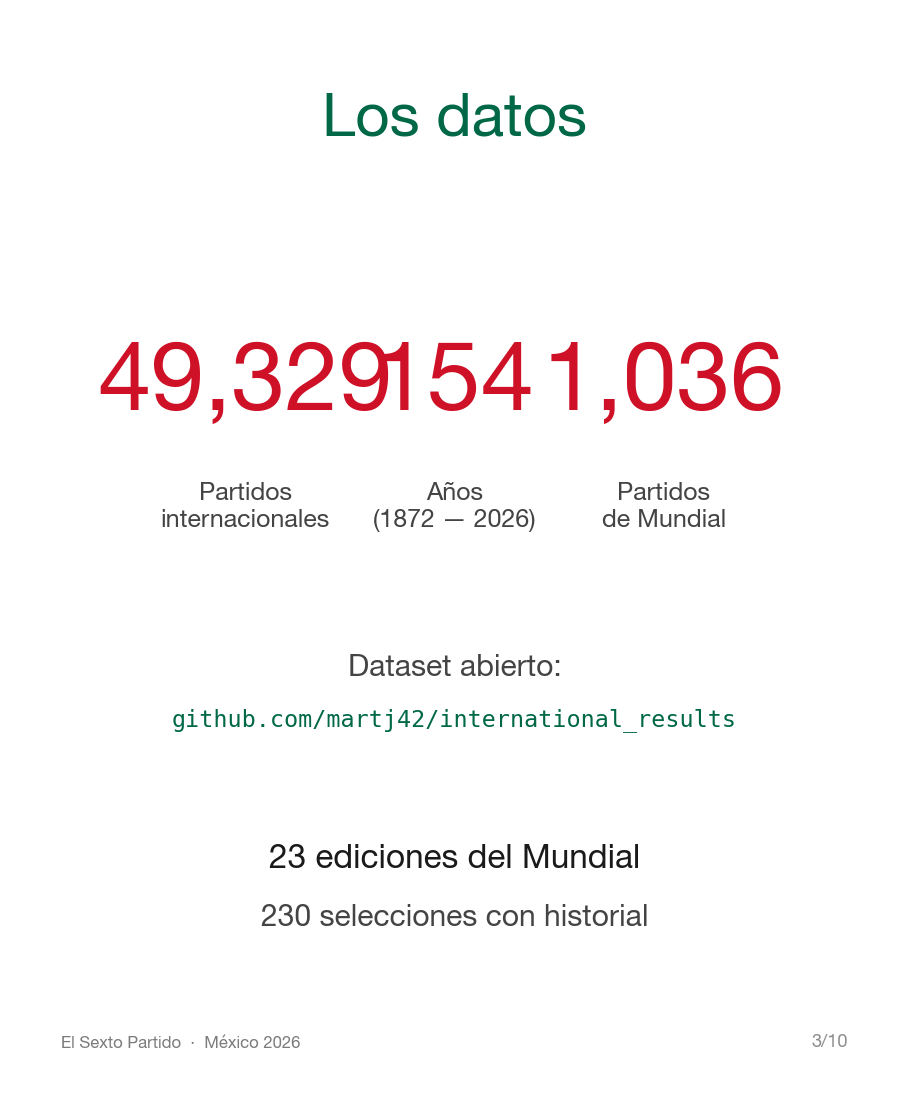
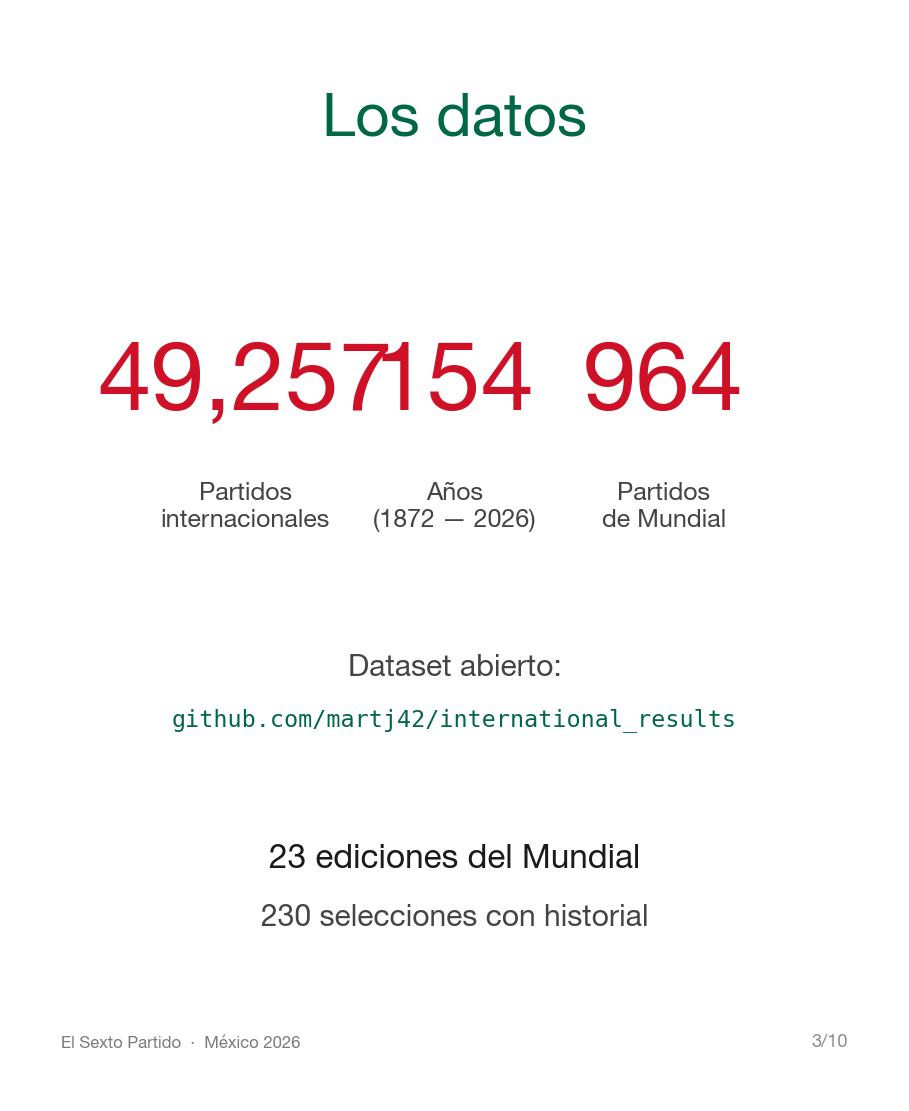
fix: corregir cifras a partidos efectivamente jugados
El dataset (49,329 filas) incluye 72 partidos futuros del Mundial 2026.
Los analizados/jugados son 49,257 (1,036 mundiales -> 964 jugados).

- Slide 3 del carrusel: 49,257 / 154 anos / 964
- README seccion Datos: aclarado el desglose dataset vs jugados
- post_linkedin.md: hook actualizado

Changed region(s): [[0.6161, 0.306, 0.8625, 0.3978], [0.2464, 0.306, 0.4312, 0.3672]]

diff --git a/src/build_carousel.py b/src/build_carousel.py
@@ -139,9 +139,9 @@ def slide_3():
                 fontweight='bold')
         ax.text(x, 6.6, label, fontsize=15, ha='center', color=GRIS_TEXTO)
 
-    num_box(2.5, '49,329', 'Partidos\ninternacionales')
+    num_box(2.5, '49,257', 'Partidos\ninternacionales')
     num_box(5.0, '154', 'Años\n(1872 — 2026)')
-    num_box(7.5, '1,036', 'Partidos\nde Mundial')
+    num_box(7.5, '964', 'Partidos\nde Mundial')
 
     ax.text(5, 4.8, 'Dataset abierto:', fontsize=18, ha='center',
             color=GRIS_TEXTO)

diff --git a/README.md b/README.md
@@ -8,7 +8,7 @@
 
 ## 📌 Resumen ejecutivo
 
-Analicé 49,329 partidos internacionales (1872-2026) para responder con datos una pregunta cultural en México: ¿la eliminación recurrente en octavos es maldición o promedio estadístico? Con un sistema ELO dinámico + GLM Poisson + 10,000 simulaciones Montecarlo del Mundial 2026, el resultado es claro: **los 7 octavos consecutivos eran el resultado más probable dado el ELO histórico de México (~1750). En 2026, con ELO 1823 y siendo anfitrión, la probabilidad de llegar a cuartos (sexto partido) sube a 30%.**
+Analicé 49,257 partidos internacionales (1872-2026) para responder con datos una pregunta cultural en México: ¿la eliminación recurrente en octavos es maldición o promedio estadístico? Con un sistema ELO dinámico + GLM Poisson + 10,000 simulaciones Montecarlo del Mundial 2026, el resultado es claro: **los 7 octavos consecutivos eran el resultado más probable dado el ELO histórico de México (~1750). En 2026, con ELO 1823 y siendo anfitrión, la probabilidad de llegar a cuartos (sexto partido) sube a 30%.**
 
 ## 🎯 Pregunta de negocio
 
@@ -19,9 +19,9 @@ Analicé 49,329 partidos internacionales (1872-2026) para responder con datos un
 
 ## 📊 Datos
 
-- **Fuente:** [martj42/international_results](https://github.com/martj42/international_results) — 49,329 partidos internacionales 1872-2026.
-- **Período cubierto:** 154 años.
-- **Tamaño:** 49,329 filas × 9 columnas (1,036 son partidos de Copa del Mundo en 23 ediciones).
+- **Fuente:** [martj42/international_results](https://github.com/martj42/international_results) — dataset abierto, 49,329 filas (de las cuales 49,257 son partidos ya jugados; los 72 restantes son la fase de grupos del Mundial 2026 ya programada).
+- **Período cubierto:** 154 años (1872 – 2026).
+- **Partidos de Copa del Mundo:** 964 jugados en 22 ediciones + 72 partidos del calendario 2026 (la simulación usa estos como fixture).
 - **Limitaciones:**
   - Amistosos son ruidosos → uso K-factor menor en el ELO.
   - Formatos de Mundial pre-1986 muy variados → la inferencia de fase solo aplica a mundiales modernos.
